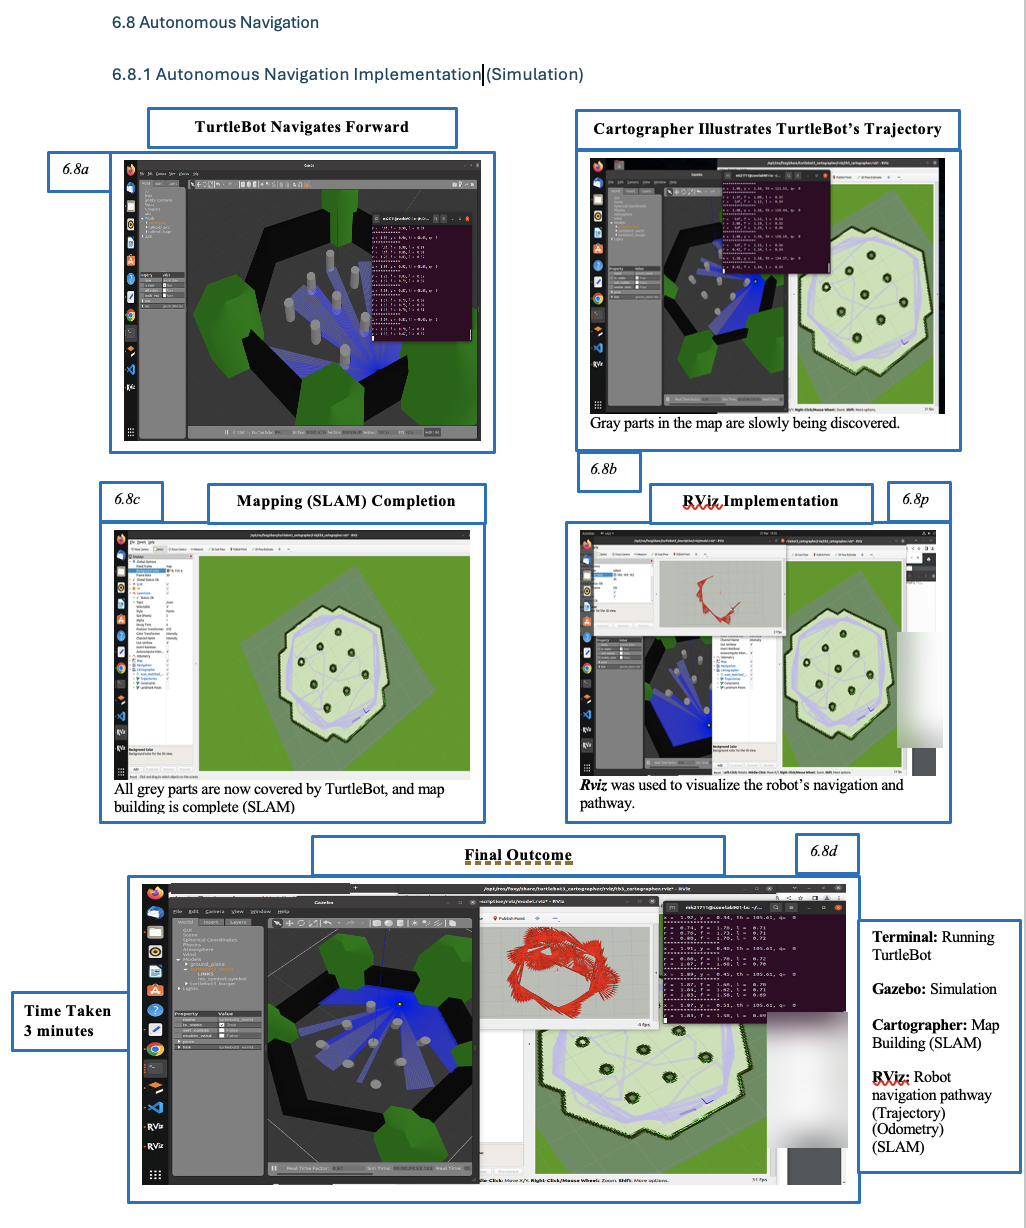
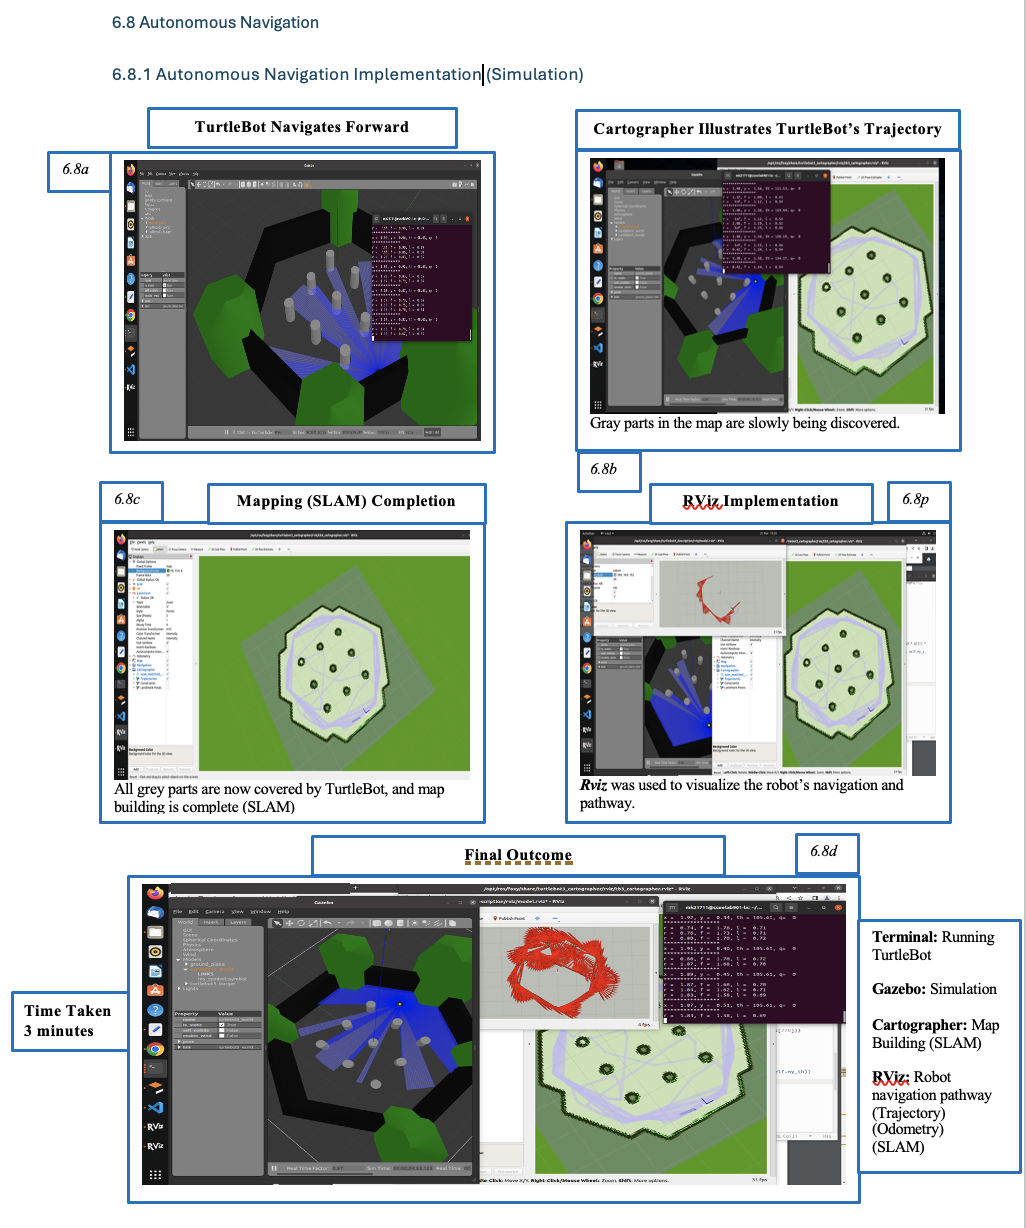
Clean demo media and refreshed code outlines

Changed region(s): [[0.7485, 0.8046, 0.8421, 0.9593], [0.8733, 0.4951, 0.9357, 0.6189]]

diff --git a/outline/ros2/autonomous_lds.py b/outline/ros2/autonomous_lds.py
@@ -9,6 +9,10 @@ from geometry_msgs.msg import Twist
 from nav_msgs.msg import Odometry
 from sensor_msgs.msg import LaserScan
 
+# A range reading for the terminal, or 'none' when the beam was unusable
+def format_reading(reading):
+    ...
+
 class PIDController:
 
     # Standard PID for smoothing the forward speed. See the note in
